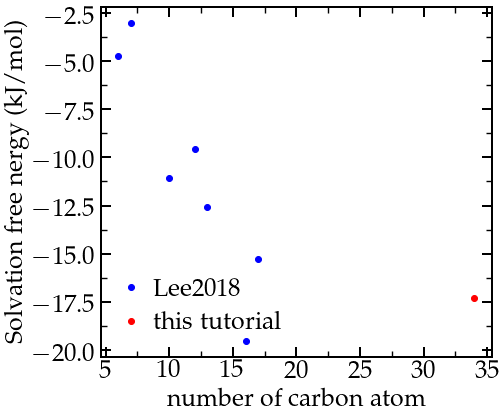
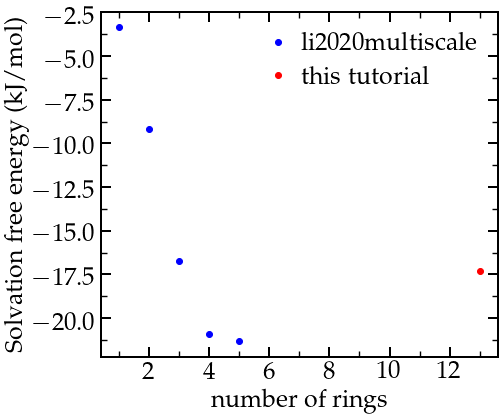
small improvement tutorial 2

diff --git a/docs/tutorials/02-HBCSolvationEnergy.html b/docs/tutorials/02-HBCSolvationEnergy.html
@@ -318,6 +318,12 @@ couple-moltype = FJEW</code></pre>
                             The nstdhdl control the frequency at which information are printed in a xvg file during the production run. 
                         </p>
                         <p>
+                            In addition, the stochastic integrator 'sd' is used instead 
+                            of 'md', as it provides a better sampling, which is crutial here, 
+                            particularly when the HBC and the water are not coupled.  
+
+                        </p>
+                        <p>
                             Copy as well the following <a href="https://raw.githubusercontent.com/gromacstutorials/gromacstutorials.github.io/main/inputs/02-HBCSolvationEnergy/solvation/topol.top" download target="_blank">topol.top</a>
                             file within the 'solvation/' folder (the only difference with the previous one if the path to the ff folder).
                         </p>
@@ -387,16 +393,21 @@ done</code></pre>
                             <pre><code>total 0 - 20, DG -17.29 +/- 4.56</code></pre>
                         </p>
                         <p>
-                            The value of -17.3 kJ/mol is somewhat reasonable:
+                            The value of -17.3 kJ/mol is somewhat reasonable, if we compare with literature values
+                            (<a href="https://pubs.acs.org/doi/10.1021/acs.jced.0c00061" target="_blank">10.1021/acs.jced.0c00061</a>)
+                            for smaller aromatic molecule:
                         </p>
 
                         <p>         
                             <img src="../figures/02-HBCSolvationEnergy/literature.png" 
                             style="width:33%" alt="Gif minimization system"/> <!-- ffmpeg -i nvtnpt.gif -r 24 nvtnpt_slower.gif  -->
                             <p style="color:#6B6B6B">Comparison of the calculated free energy of solvation 
-                                with some other values for other similar graphene-like molecule. Results 
-                                are plotted as a function of the number of carbon atoms of the molecules.  
+                                with similar aromatic molecule (from (<a href="https://pubs.acs.org/doi/10.1021/acs.jced.0c00061" target="_blank">10.1021/acs.jced.0c00061</a>)). Results 
+                                are plotted as a function of the number of rings.   
                         </p>
+                        <p>
+
+                        </p> 
 
                     </section>
                     <!--Section 4-->
